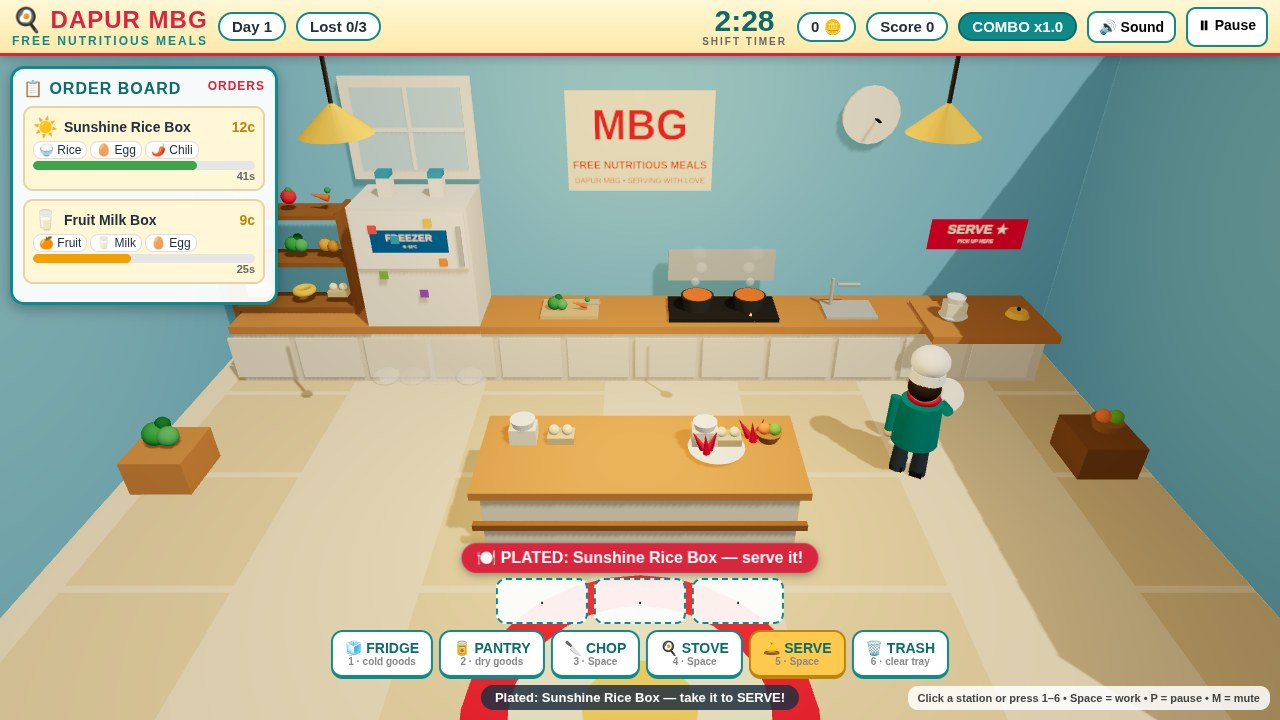
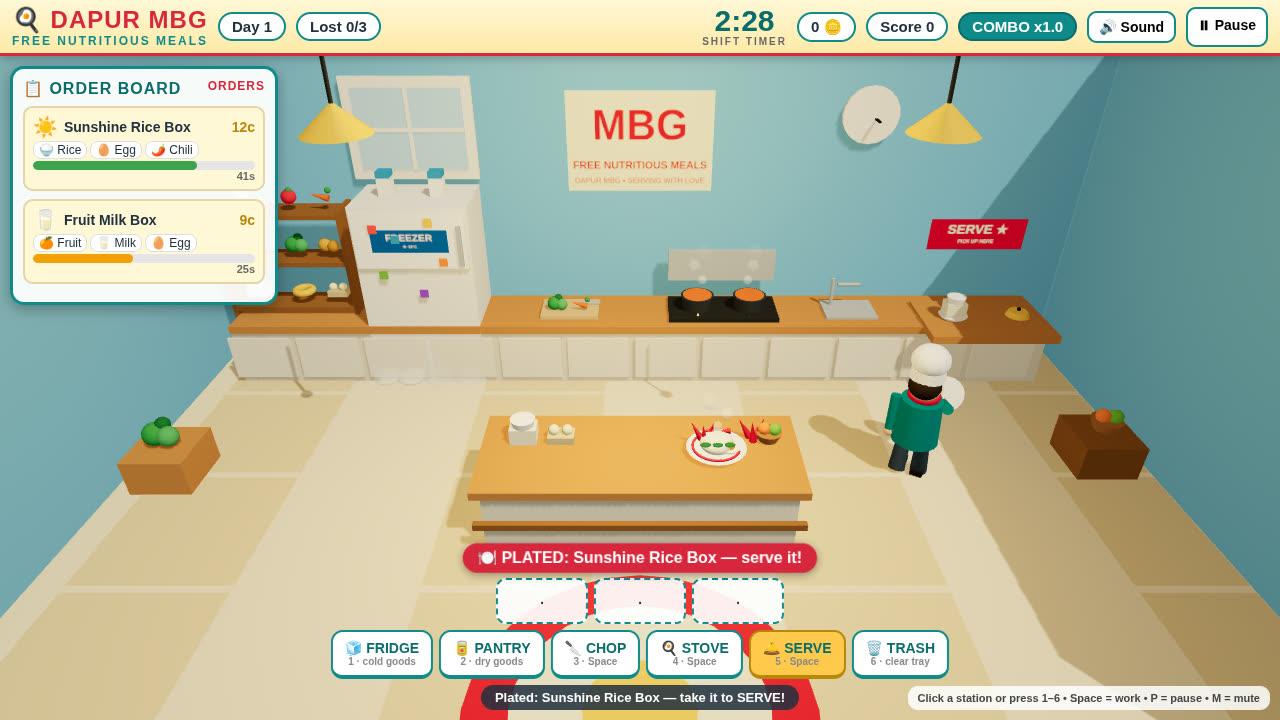
Polish: appetizing dishes, busier cover shot

diff --git a/game/src/kitchen.js b/game/src/kitchen.js
@@ -130,10 +130,69 @@ export function buildIngredientProp(id, scale = 1) {
   return g;
 }
 
+// A plated dish that looks worth serving: food mound (rice / noodle nest),
+// mains arranged around it, golden yolk on egg dishes, chili + herb garnish,
+// a sauce drizzle ring, and rising steam wisps (animated by buildKitchen).
+export function buildPlatedDish(dish) {
+  const g = new THREE.Group();
+  const plate = new THREE.Mesh(new THREE.CylinderGeometry(0.36, 0.27, 0.06, 22), mat(0xffffff, 0.4));
+  plate.position.y = 0.03; plate.castShadow = true; g.add(plate);
+  const has = (id) => dish.recipe.includes(id);
+  if (has('rice')) {
+    const mound = sph(0.2, 0xfff8dc, 0, 0.12, 0); mound.scale.y = 0.55; g.add(mound);
+  } else if (has('noodle')) {
+    const nest = new THREE.Mesh(new THREE.TorusGeometry(0.15, 0.07, 10, 20), mat(0xf2c14e));
+    nest.rotation.x = Math.PI / 2; nest.position.y = 0.1; nest.castShadow = true; g.add(nest);
+  } else {
+    const mound = sph(0.18, 0xf5f0dc, 0, 0.1, 0); mound.scale.y = 0.5; g.add(mound);
+  }
+  const mains = dish.recipe.filter((id) => id !== 'rice' && id !== 'noodle');
+  mains.forEach((id, i) => {
+    const a = (i / Math.max(mains.length, 1)) * Math.PI * 2 + 0.5;
+    const px = Math.cos(a) * 0.17, pz = Math.sin(a) * 0.17;
+    if (id === 'egg') {
+      // fried egg: white disc + golden yolk (no carton on a plate)
+      const white = cyl(0.11, 0.11, 0.02, 0xfffdf2, px, 0.1, pz, 18); g.add(white);
+      const yolk = sph(0.055, 0xffb703, px, 0.13, pz);
+      yolk.material = new THREE.MeshStandardMaterial({ color: 0xffb703, roughness: 0.25, emissive: 0x442200 });
+      g.add(yolk);
+    } else if (id === 'milk') {
+      g.add(cyl(0.06, 0.05, 0.14, 0xffffff, px, 0.14, pz, 14));
+      g.add(cyl(0.055, 0.055, 0.02, 0x3fa7d6, px, 0.2, pz, 14));
+    } else {
+      const p = buildIngredientProp(id, 0.85);
+      p.position.set(px, 0.08, pz); g.add(p);
+    }
+  });
+  // garnish: red chili slices + green herb leaves on top
+  for (let i = 0; i < 2; i++) {
+    const chili = new THREE.Mesh(new THREE.ConeGeometry(0.035, 0.14, 8), mat(0xd7263d, 0.5));
+    chili.rotation.z = Math.PI / 2; chili.position.set(-0.1 + i * 0.2, 0.2, -0.12); chili.castShadow = true; g.add(chili);
+  }
+  for (let i = 0; i < 3; i++) {
+    const leaf = sph(0.045, 0x2c7a3a, -0.14 + i * 0.14, 0.19, 0.14);
+    leaf.scale.set(1.4, 0.35, 0.9); g.add(leaf);
+  }
+  // sauce drizzle: thin red/gold arc on the plate rim
+  const drizzle = new THREE.Mesh(
+    new THREE.TorusGeometry(0.28, 0.015, 8, 24, Math.PI * 1.2),
+    new THREE.MeshStandardMaterial({ color: has('chili') ? 0xd7263d : 0xf2a007, roughness: 0.3 }));
+  drizzle.rotation.x = Math.PI / 2; drizzle.rotation.z = 0.4; drizzle.position.y = 0.065; g.add(drizzle);
+  // steam wisps (registered with the kitchen so they animate)
+  for (let i = 0; i < 3; i++) {
+    const s = new THREE.Mesh(new THREE.SphereGeometry(0.07, 8, 6),
+      new THREE.MeshStandardMaterial({ color: 0xffffff, transparent: true, opacity: 0.45, roughness: 1 }));
+    s.position.set(-0.1 + i * 0.1, 0.35, 0);
+    s.userData.steam = true; s.userData.baseY = 0.35; s.userData.rise = i * 0.33;
+    g.add(s);
+  }
+  return g;
+}
+
 export function buildKitchen(scene) {
   const root = new THREE.Group();
   scene.add(root);
-  const animated = { steam: [], mist: [], flames: [] };
+  const animated = { steam: [], mist: [], flames: [], plateSteam: [] };
 
   // ---- Room: bright sky-blue walls, warm cream floor (clearly different) ----
   const floor = new THREE.Mesh(new THREE.PlaneGeometry(14, 10), mat(CREAM, 0.95));
@@ -322,10 +381,21 @@ export function buildKitchen(scene) {
       m.position.x = -0.6 + i * 0.4 + Math.sin(t * 0.9 + i) * 0.05;
     });
     animated.flames.forEach((f, i) => { f.scale.y = 0.85 + 0.3 * Math.sin(t * 11 + i * 2.4); });
+    for (const s of animated.plateSteam) {
+      const ph = (t * 0.4 + s.userData.rise) % 1;
+      s.position.y = s.userData.baseY + ph * 0.5;
+      s.material.opacity = 0.5 * (1 - ph);
+      s.scale.setScalar(0.8 + ph * 0.9);
+    }
   }
 
   return {
     root, stations, island, fridgeDoor, update,
     setFridgeOpen(open) { fridgeDoor.rotation.y = open ? -1.9 : 0; },
+    registerPlateSteam(group) {
+      animated.plateSteam.length = 0;
+      group.traverse((o) => { if (o.userData && o.userData.steam) animated.plateSteam.push(o); });
+    },
+    clearPlateSteam() { animated.plateSteam.length = 0; },
   };
 }

diff --git a/game/src/game.js b/game/src/game.js
@@ -2,7 +2,7 @@
 // serve flow, HUD, title / pause / game-over states, and ?shot= staging.
 import * as THREE from 'three';
 import { INGREDIENTS, DISHES, STATIONS, MAX_TRAY, findDish, FRIDGE_ITEMS, PANTRY_ITEMS } from './config.js';
-import { buildKitchen, buildIngredientProp } from './kitchen.js';
+import { buildKitchen, buildIngredientProp, buildPlatedDish } from './kitchen.js';
 import { buildChef } from './chef.js';
 import { createOrderManager } from './orders.js';
 import * as SFX from './audio.js';
@@ -36,7 +36,7 @@ function init() {
   renderer.shadowMap.type = THREE.PCFSoftShadowMap;
   renderer.outputColorSpace = THREE.SRGBColorSpace;
   renderer.toneMapping = THREE.ACESFilmicToneMapping;
-  renderer.toneMappingExposure = 1.05;
+  renderer.toneMappingExposure = 1.12;
 
   scene = new THREE.Scene();
   scene.background = new THREE.Color(0x9fd8f7);
@@ -181,18 +181,12 @@ function plateDish(dish) {
   tray = []; // the ingredients are now on the plate
   SFX.playDing();
   setHint(`Plated: ${dish.name} — take it to SERVE!`);
-  // plate on the island
-  if (plateMesh) scene.remove(plateMesh);
-  plateMesh = new THREE.Group();
-  const plate = new THREE.Mesh(new THREE.CylinderGeometry(0.34, 0.26, 0.06, 22), new THREE.MeshStandardMaterial({ color: 0xffffff, roughness: 0.4 }));
-  plate.position.y = 0.03; plate.castShadow = true; plateMesh.add(plate);
-  dish.recipe.forEach((id, i) => {
-    const p = buildIngredientProp(id, 0.9);
-    p.position.set(-0.14 + (i % 2) * 0.28, 0.08, i < 2 ? -0.08 : 0.12);
-    plateMesh.add(p);
-  });
+  // plate on the island: garnished, steaming, arranged — not flat blobs
+  if (plateMesh) { scene.remove(plateMesh); kitchen.clearPlateSteam(); }
+  plateMesh = buildPlatedDish(dish);
   plateMesh.position.set(0.9, 1.02, -0.7);
   scene.add(plateMesh);
+  kitchen.registerPlateSteam(plateMesh);
   chef.setAction('carry');
   refreshTrayProps();
   updateHUD();
@@ -237,7 +231,7 @@ function interact(id) {
 
 function clearPlate() {
   plated = null;
-  if (plateMesh) { scene.remove(plateMesh); plateMesh = null; }
+  if (plateMesh) { scene.remove(plateMesh); plateMesh = null; kitchen.clearPlateSteam(); }
   chef.setAction('idle');
 }
 
@@ -396,17 +390,33 @@ function applyShot(shot) {
   startGame();
   const st = orderMgr.state();
   if (shot === 'start') {
-    // title screen over a live kitchen with two orders waiting;
-    // card pushed right so Chef Sari is visible on the left, facing the camera
+    // busy cover: title card pushed right; behind it a kitchen mid-shift —
+    // Chef Sari chopping at the board, 4 orders (one amber), a steaming
+    // plated dish on the island, tray full, fridge open, coins + combo up
     state = 'title';
     const ts = $('title-screen');
     ts.classList.remove('hidden');
     ts.style.justifyContent = 'flex-end';
-    ts.style.paddingRight = '46px';
-    forceOrders([['sunshine-rice', 48], ['chicken-noodle', 40]]);
-    chef.group.position.set(-2.9, 0, 0.9);
-    chef.group.rotation.y = 0; // faces the camera: toque, apron, gold badge
-    chef.setAction('idle');
+    ts.style.paddingRight = '30px';
+    // narrower card + camera panned right so Chef Sari and the plated dish
+    // sit in the open left half instead of hiding behind the title card
+    ts.querySelector('.card').style.maxWidth = '500px';
+    ts.querySelector('.card').style.padding = '20px 22px';
+    camera.position.set(1.1, 6.6, 6.6);
+    camera.lookAt(-0.5, 0.9, -3.0);
+    forceOrders([['sunshine-rice', 48], ['chicken-noodle', 40], ['beef-potato', 22], ['fruit-milk', 33]]);
+    plateDish(DISHES[0]); // Sunshine Rice Box, garnished + steaming, on the island
+    plateMesh.position.set(-1.2, 1.02, -0.7); // left end of the island, in the open
+    forceTray([['rice', false, false], ['egg', false, false], ['chili', true, false]]);
+    chef.group.position.set(-1.1, 0, -2.4);
+    chef.group.lookAt(-1.1, 0, -4.35);
+    chef.group.rotateY(0.7); // three-quarter view: toque + teal shirt read
+    chef.setAction('chop');
+    chefStation = 'chop';
+    kitchen.setFridgeOpen(true);
+    orderMgr.setCoins(24);
+    orderMgr.setCombo(2); // combo x1.2
+    setHint('Chopping chili for the Sunshine Rice Box…');
   } else if (shot === 'play') {
     // dish mid-assembly: rice + egg on tray, chili chopped, chef chopping
     forceOrders([['sunshine-rice', 38], ['veggie-rice', 30], ['beef-potato', 44]]);
